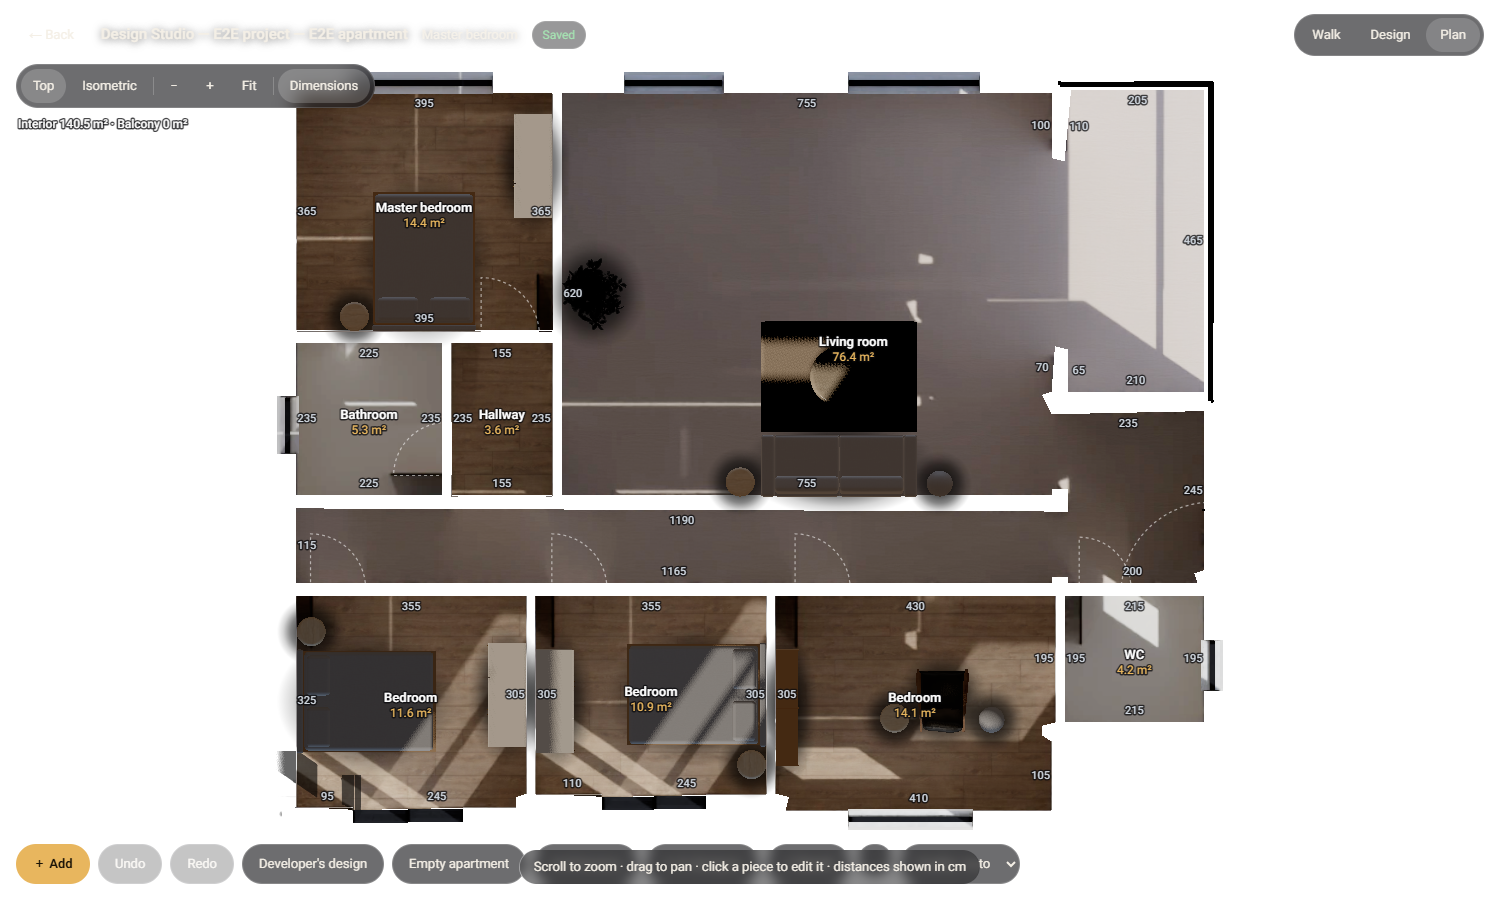
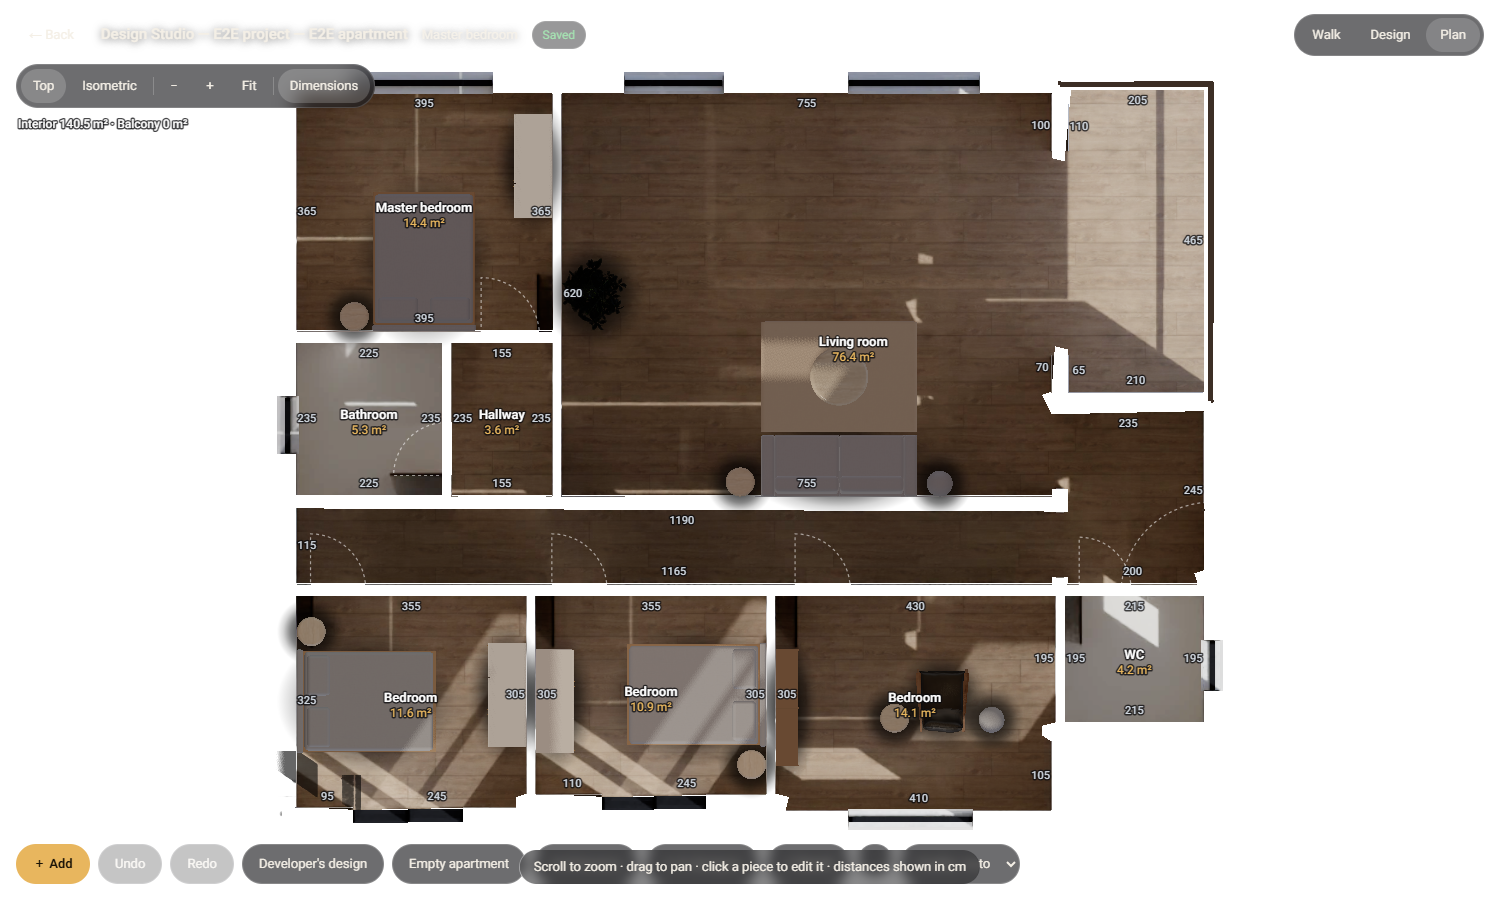
Build worker calibrates item lighting for every new shell; developer upload e2e against the local dev database

diff --git a/scripts/twin/build-worker.ts b/scripts/twin/build-worker.ts
@@ -153,7 +153,18 @@ async function buildStudioShell(slug: string, twinFile: string, tour: ShellTour,
   // the developer's starting design: a minimal automatic furnishing, replaceable later by a hand-made one
   const seed = await new Promise<number>((resolve) => spawn("npx", ["tsx", "scripts/studio/make-seed.mts", shell], { cwd: ROOT, stdio: "inherit", shell: true }).on("close", (c) => resolve(c ?? 1)));
   if (seed !== 0) console.error(`  seed design for ${shell} failed (the studio opens empty)`);
+  // light the live furniture like the baked shell: per room and direction from the bake (best effort; without it items use neutral light)
+  const light = await new Promise<number>((resolve) => spawn(process.execPath, ["scripts/studio/item-light.mjs", shell, ...referenceGlobal()], { cwd: ROOT, stdio: "inherit" }).on("close", (c) => resolve(c ?? 1)));
+  if (light !== 0) console.error(`  item-light calibration for ${shell} failed (live items use neutral light)`);
   console.log(`  studio shell ready: /studio/${shell}`);
+}
+
+/** The renderer-fitted global factor of the reference apartment (Yarkon): a sound default until a new apartment is fitted by hand. */
+function referenceGlobal(): string[] {
+  try {
+    const g = JSON.parse(readFileSync(path.join(ROOT, "public", "studio", "lighting", "yarkon-twin-shell.json"), "utf8")).global;
+    return typeof g === "number" ? [`--global=${g}`] : [];
+  } catch { return []; }
 }
 
 async function processQueued(): Promise<number> {

diff --git a/docs/design-studio/PROGRESS.md b/docs/design-studio/PROGRESS.md
@@ -245,3 +245,9 @@ Every tour now links to an empty apartment of its own plan: `/walk/<slug>` looks
 - Result on `03_Yarden`: sofa against the south wall of the living space facing into it, rug, table, lamp and plant in the living space, the corridor stays clear (19 pieces). New tests in `studio-placement-open-plan.test.ts` (553 total); `e2e-ai` and `e2e-newplan` pass.
 - `e2e-newplan.mjs` now uses a fresh visitor id per run (a saved design from an earlier run made it flaky).
 - Not done: seeds of already built apartments are regenerated only on demand (`npx tsx scripts/studio/make-seed.mts <slug>`); the hand-made Yarkon seed is untouched.
+
+## Automatic item lighting + developer upload test (2026-11-27)
+- `build-worker` now runs `scripts/studio/item-light.mjs <slug>-shell` after the shell and the seed. It derives the per-room, per-direction light correction from the bake (cube) and writes `public/studio/lighting/<slug>-shell.json`; `global` defaults to the value fitted on Yarkon (1.1487), per-room `gain` is 1. Best effort: a failure is logged and the items stay on neutral light.
+- Checked by eye on the new Yarden shell: live furniture is much closer to the baked walls than with neutral light (screenshots `docs/design-studio/results/newplan/light-{neutral,calibrated}.png`). NOT measured: `light-tone.mjs` is hard-wired to the Yarkon wall positions, so the numeric tone match (and the fitted `global` / `gain`) is unverified for new apartments; the living room looks slightly bright (Yarkon's own living gain was 0.6). Next step if wanted: make `light-tone.mjs` pick plain wall spots per apartment and fit.
+- Developer upload through the real UI, end to end, on the LOCAL dev database (`node scripts/studio/dev-local.mjs 3004` starts the app against `STUDIO_TEST_DATABASE_URL`; launch config `haveniq-dev-localdb`): `scripts/twin/e2e-dev-ui.mjs <plan.dxf> <unitTypeId>` creates an approved developer + unit type, uploads `02_Gefen.dxf` with the file input, checks the review screen (9 rooms, 115.66 m2, 0 errors), approves, and sees the build queued. `build-worker --once --preview` then built tour + shell + seed (16 pieces) + lighting, and `e2e-newplan.mjs ut-e2e-ui-gefen` passes as a buyer. Screenshots in `docs/design-studio/results/dev-ui/`.
+- Not covered: the developer's own "build" button and status polling on the page, DWG upload, a plan with errors (approval blocked), the real (Neon) database.
